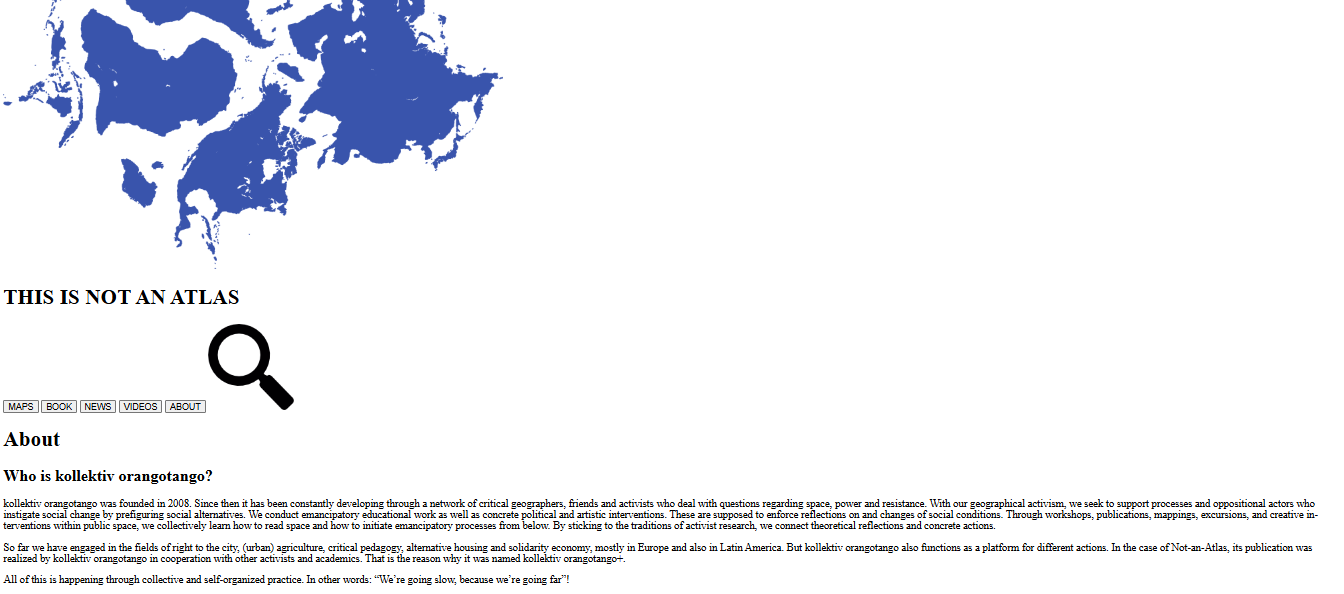
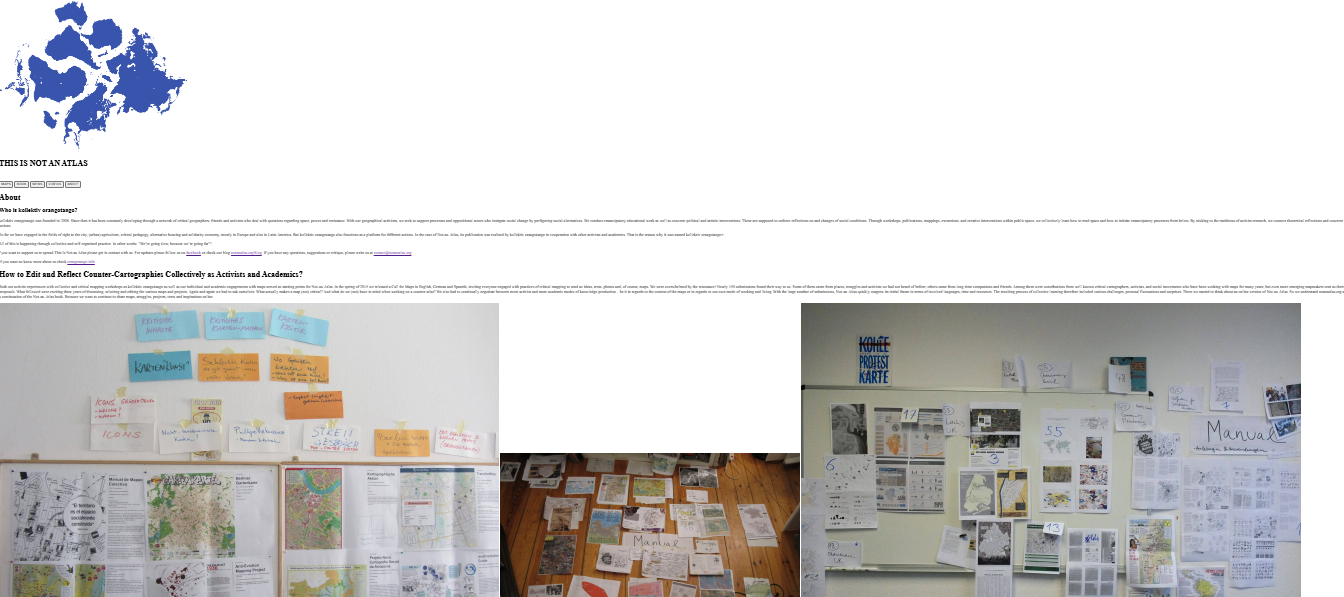
Act 1

diff --git a/notanatlas.html b/notanatlas.html
@@ -5,40 +5,135 @@
         <link href="styles.css" rel="stylesheet">
     </head>
     <body>
-        <div style="flex-direction: row;">
-            <img src="https://notanatlas.org/wp-content/uploads/2018/06/world-projektion-e1529909696137.png">
-            <h1>THIS IS NOT AN ATLAS</h1>
-            <button>MAPS</button>
-            <button>BOOK</button>
-            <button>NEWS</button>
-            <button>VIDEOS</button>
-            <button>ABOUT</button>
-            <img src="https://cdn-icons-png.flaticon.com/128/16/16492.png">
+        <div class="header">
+            <div style="display: flex; align-items: center; gap: 10px">
+                <img src="https://notanatlas.org/wp-content/uploads/2018/06/world-projektion-e1529909696137.png">
+                <h1 class="text">THIS IS NOT AN ATLAS</h1>
+            </div>
+            <div style="align-items: center;">
+                <button>MAPS</button>
+                <button>BOOK</button>
+                <button>NEWS</button>
+                <button>VIDEOS</button>
+                <button>ABOUT</button>
+                <img src="https://cdn-icons-png.flaticon.com/128/16/16492.png" style="filter: invert(); width: 20px; height: 20px; margin-left: 5px;">
+            </div>
         </div>
 
-        <h1>About</h1>
-        <h2>Who is kollektiv orangotango?</h2>
-        <p>kollektiv orangotango was founded in 2008. Since then it has been constantly developing 
-            through a network of critical geographers, friends and activists who deal with questions 
-            regarding space, power and resistance. With our geographical activism, we seek to support 
-            processes and oppositional actors who instigate social change by prefiguring social 
-            alternatives. We conduct emancipatory educational work as well as concrete political and 
-            artistic interventions. These are supposed to enforce reflections on and changes of social 
-            conditions. Through workshops, publications, mappings, excursions, and creative interventions 
-            within public space, we collectively learn how to read space and how to initiate emancipatory 
-            processes from below. By sticking to the traditions of activist research, we connect 
-            theoretical reflections and concrete actions.
-        </p>
-        <p>
-            So far we have engaged in the fields of right to the city, (urban) agriculture, critical 
-            pedagogy, alternative housing and solidarity economy, mostly in Europe and also in Latin 
-            America. But kollektiv orangotango also functions as a platform for different actions. 
-            In the case of Not-an-Atlas, its publication was realized by kollektiv orangotango in 
-            cooperation with other activists and academics. That is the reason why it was named 
-            kollektiv orangotango+.
-        </p>
-        <p>All of this is happening through collective and self-organized practice. In other words: 
-            “We’re going slow, because we’re going far”!
-        </p>
+        <div class="mainbody">
+            <h1 style="text-align: center; font-size: 48px; font-weight: 100; margin: 0px; margin-top: 10px;">About</h1>
+            <h2 style="margin-top: 0;">Who is kollektiv orangotango?</h2>
+            <p>kollektiv orangotango was founded in 2008. Since then it has been constantly developing 
+                through a network of critical geographers, friends and activists who deal with questions 
+                regarding space, power and resistance. With our geographical activism, we seek to support 
+                processes and oppositional actors who instigate social change by prefiguring social 
+                alternatives. We conduct emancipatory educational work as well as concrete political and 
+                artistic interventions. These are supposed to enforce reflections on and changes of social 
+                conditions. Through workshops, publications, mappings, excursions, and creative interventions 
+                within public space, we collectively learn how to read space and how to initiate emancipatory 
+                processes from below. By sticking to the traditions of activist research, we connect 
+                theoretical reflections and concrete actions.
+            </p>
+            <p>
+                So far we have engaged in the fields of right to the city, (urban) agriculture, critical 
+                pedagogy, alternative housing and solidarity economy, mostly in Europe and also in Latin 
+                America. But kollektiv orangotango also functions as a platform for different actions. 
+                In the case of Not-an-Atlas, its publication was realized by kollektiv orangotango in 
+                cooperation with other activists and academics. That is the reason why it was named 
+                kollektiv orangotango+.
+            </p>
+            <p>All of this is happening through collective and self-organized practice. In other words: 
+                “We’re going slow, because we’re going far”!
+            </p>
+            <p>If you want to support us to spread This Is Not an Atlas please get in contact with us.<br>
+                For updates please follow us on <a href="#0">facebook</a> or check our blog <a href="#0">notanatlas.org/blog</a>.
+                <br>If you have any questions, suggestions or critique, please write us at 
+                <a href="#0">contact@notanatlas.org</a>
+            </p>
+            <p>
+                If you want no know more about us check <a href="#0">orangotango.info</a>
+            </p>
+            <h2>How to Edit and Reflect Counter-Cartographies Collectively as Activists and Academics?</h2>
+            <p>Both our activist experiences with collective and critical mapping workshops as kollektiv
+                 orangotango as well as our individual and academic engagements with maps served as 
+                 starting points for Not-an-Atlas. In the spring of 2015 we released a <a href="#0">Call for Maps 
+                 in English, German and Spanish</a>, inviting everyone engaged with practices of critical 
+                 mapping to send us ideas, texts, photos and, of course, maps. We were overwhelmed by
+                  the resonance! Nearly 150 submissions found their way to us. Some of them came from 
+                  places, struggles and activists we had not heard of before; others came from 
+                  long-time companions and friends. Among them were contributions from well-known 
+                  critical cartographers, activists, and social movements who have been working with 
+                  maps for many years; but even more emerging mapmakers sent us their proposals. 
+                  What followed were exciting three years of discussing, selecting and editing the 
+                  various maps and projects. Again and again we had to ask ourselves: What actually 
+                  makes a map (not) critical? And what do we (not) have in mind when working on a 
+                  counter-atlas? We also had to continually negotiate between more activist and more 
+                  academic modes of knowledge production – be it in regards to the content of the 
+                  maps or in regards to our own mode of working and living. With the large number 
+                  of submissions, Not-an-Atlas quickly outgrew its initial frame in terms of involved 
+                  languages, time and resources. The resulting process of collective learning therefore 
+                  included various challenges, personal fluctuations and surprises. There we started 
+                  to think about an online version of Not-an-Atlas. So we understand <a href="#0">notanatlas.org</a> as 
+                  a continuation of the Not-an-Atlas book. Because we want to continue to share maps, 
+                  struggles, projects, texts and inspirations online.
+            </p>
+            <div style="display: flex; justify-content: space-between; gap: 30px;">
+                <img src="https://notanatlas.org/wp-content/uploads/slider2/B_IMG_4334_about_process.jpeg" class="showcase">
+                <img src="https://notanatlas.org/wp-content/uploads/2018/09/about_img.jpg" class="showcase">
+                <img src="https://notanatlas.org/wp-content/uploads/slider2/DSF6424_about_process.jpeg" class="showcase">
+            </div>
+           <div style="display:flex;  justify-content: center; margin-top: 20px;">
+            <img src="Links.png" style="width: 30vw; height: 6vh;">
+           </div> 
+        </div>
+
+        <div class="info">
+            <section>
+                <h4>REALIZED BY</h4>
+                <img src="https://notanatlas.org/wp-content/uploads/2018/06/Logo_KO.png" style="width: 700px; height: 120px; margin: 40px 0px 0px 20px;">
+            </section>  
+            <section>
+                <h4>FIND US ON</h4>
+                <button><img src="https://notanatlas.org/wp-content/uploads/2025/04/mastodon-black-icon.png"></button> 
+                <button><img src="	https://notanatlas.org/wp-content/uploads/2019/10/iconmonstr-facebook-4-64.png"></button>
+                <button><img src="https://notanatlas.org/wp-content/uploads/2019/11/iconmonstr-instagram-14-64.png"></button>
+                <button><img src="https://notanatlas.org/wp-content/uploads/2019/11/iconmonstr-vimeo-4-64.png"></button>
+                <button><img src="https://notanatlas.org/wp-content/uploads/2019/11/iconmonstr-youtube-4-64.png"></button>
+            </section>
+            
+            <h4>NEWSLETTER</h4>
+            <input type="text" placeholder="Email*" style="height: 50px; padding: 0px 20px 0px 20px; width: 100px; font-size: 18px; margin-right: 10px; border-color: transparent; width: 10%;">
+            <button style="background-color: #33509F; height: 50px; border-radius: 5px; font-size: 12px; padding: 0px 20px 0px 20px">SUBSCRIBE!</button>
+            <p>You can unsubscribe at any time and we’ll never sell, swap or share your details with anyone else. 
+                Read our <a href="#0" style="color: black; font-weight: 800; text-decoration: none;">privacy policy</a>.
+            </p>
+
+            <section style="margin-top: -50px;">
+                <h4 style="margin-right: 130px;">SUPPORT</h4>
+                <img src="https://notanatlas.org/wp-content/uploads/2018/09/Rosa-Luxemburg-Stiftung.png" class="support">
+                <img src="https://notanatlas.org/wp-content/uploads/2018/06/lmd_d.png" class="support">
+                <img src="https://notanatlas.org/wp-content/uploads/2018/06/transcript.png" class="support">
+            </section>
+            
+            <section>
+                <h4 style="margin-right: 50px;">ALSO SUPPORTED <br>BY</h4>
+                <p style="font-weight: bold; font-size: 18px; word-spacing: 8px;">anstiftung | transformap | ASA FF</p>
+            </section>
+            
+            <section>
+                <h4 style="margin-right: 160px;">LEGAL</h4>
+                <img src="https://notanatlas.org/wp-content/uploads/2018/06/creativecommonsby-135x70.png" style="width: 100px; margin-right: 30px; margin-top: 20px; height: 50px;">
+                <p style="line-height: normal; margin-top: 20px;">Except where otherwise <a href="#0" style="color: black; font-weight: 800; text-decoration: none;">noted</a>, content on this site is licensed under a 
+                    <a href="#0" style="color: black; font-weight: 800; text-decoration: none;">Creative Commons Attribution 4.0<br> International license</a>
+                </p>
+            </section>
+        </div>
+
+        <div class="footer">
+            <p style="margin: 0;">IMPRESSUM | 
+                <a href="#0" style="color: white; text-decoration: none;">CONTACT@NOTANATLAS.ORG</a>
+                <a href="#0" style="color: white; text-decoration: none;">PRIVACY POLICY</a>
+            </p>
+        </div>
     </body>
 </html>

diff --git a/notanatlas.css b/notanatlas.css
@@ -1,0 +1,102 @@
+body {
+    margin: 0;
+    font-size: 17px;
+    color: #222829;
+    font-family: sans-serif;
+    font-weight: 100;
+    line-height: 1.8;
+    
+    margin-bottom: auto;
+}
+
+.text, button {
+    font-family: inherit;
+    font-size: 19px; 
+    font-weight: 800; 
+    letter-spacing: 2px;
+    color: white;
+}
+
+.header {
+    background-color: rgb(0, 0, 0); 
+    display: flex;
+    align-items: center;
+    justify-content: space-between;
+    gap: 20px;
+    color: white;
+    padding: 5px 70px 5px 70px;
+    position: sticky;
+    left: 0;
+    top: 0;
+    z-index: 2;
+    height: 45px;
+}
+    
+.mainbody {
+    padding: 0px 70px 10px 70px;
+}
+
+.info {
+    background-color: #E6E6E6;
+    padding-left: 80px;
+    margin-top: 100px;
+    padding-top: 30px;
+}
+
+.footer {
+    background-color: black;
+    color: white;
+    justify-items: center;
+    align-items: center;
+    height: auto;
+    padding: 20px 0px 20px 0px;
+    font-size: 12px;
+    margin-top: -40px;
+    font-weight: 100;
+    letter-spacing: 1px;
+}
+
+.showcase {
+    flex: 33%;
+    height: 300px;
+}
+
+.support {
+    width: 200px;
+    height: 150px;
+    margin-right: 150px;
+    margin-top: 30px;
+}
+
+img {
+    width: 50px;
+    height: 40px;
+}
+
+button {
+    background-color: transparent;
+    border-color: transparent;
+}
+
+button:hover {
+    cursor: pointer;
+}
+
+section {
+    display: flex; 
+    flex-direction: row;
+    margin-bottom: 40px;
+}
+
+h2 {
+    font-size: 28px;
+}
+
+h4 {
+    margin-right: 70px;
+    font-weight: 800;
+}
+
+p {
+    margin-bottom: 40px;
+}

diff --git a/Actividad1.html b/Actividad1.html
@@ -1,0 +1,22 @@
+<!DOCTYPE html>
+<html>
+    <head>
+        <title>Actividad Not An Atlas</title>
+        <link href="ActividadNotAnAtlas.css" rel="stylesheet">
+    </head>
+    <body>
+        <h1>Version 1</h1>
+        <img src="V1.png">
+        <hr>
+        <h1>Version 2</h1>
+        <img src="V2.png">
+        <hr>
+        <h1>Version 3</h1>
+        <img src="V3.png">
+        <hr>
+        <h1>Version 4</h1>
+        <img src="V4_1.png">
+        <img src="V4_2.png"> 
+
+    </body>
+</html>

diff --git a/Actividad1.css b/Actividad1.css
@@ -1,0 +1,18 @@
+body {
+    background-color: rgba(96, 140, 190, 0.781);
+    padding: 0px 20px 0px 20px;
+}
+
+h1 {
+    text-align: center;
+}
+
+img {
+    width: 100%;
+    height: 50%;
+}
+
+hr {
+    border-width: 5px;
+    margin-top: 10px;
+}

diff --git a/miarchivo.html b/miarchivo.html
@@ -29,7 +29,7 @@
         <a href="https://Lix-cb.github.io/index.html">Jorge</a>
         
         <h1>Tareas</h1>
-        <a href="">Actividad NonAtlas</a>
+        <a href="">Actividad_NotAnAtlas</a>
         
     </body>
 
